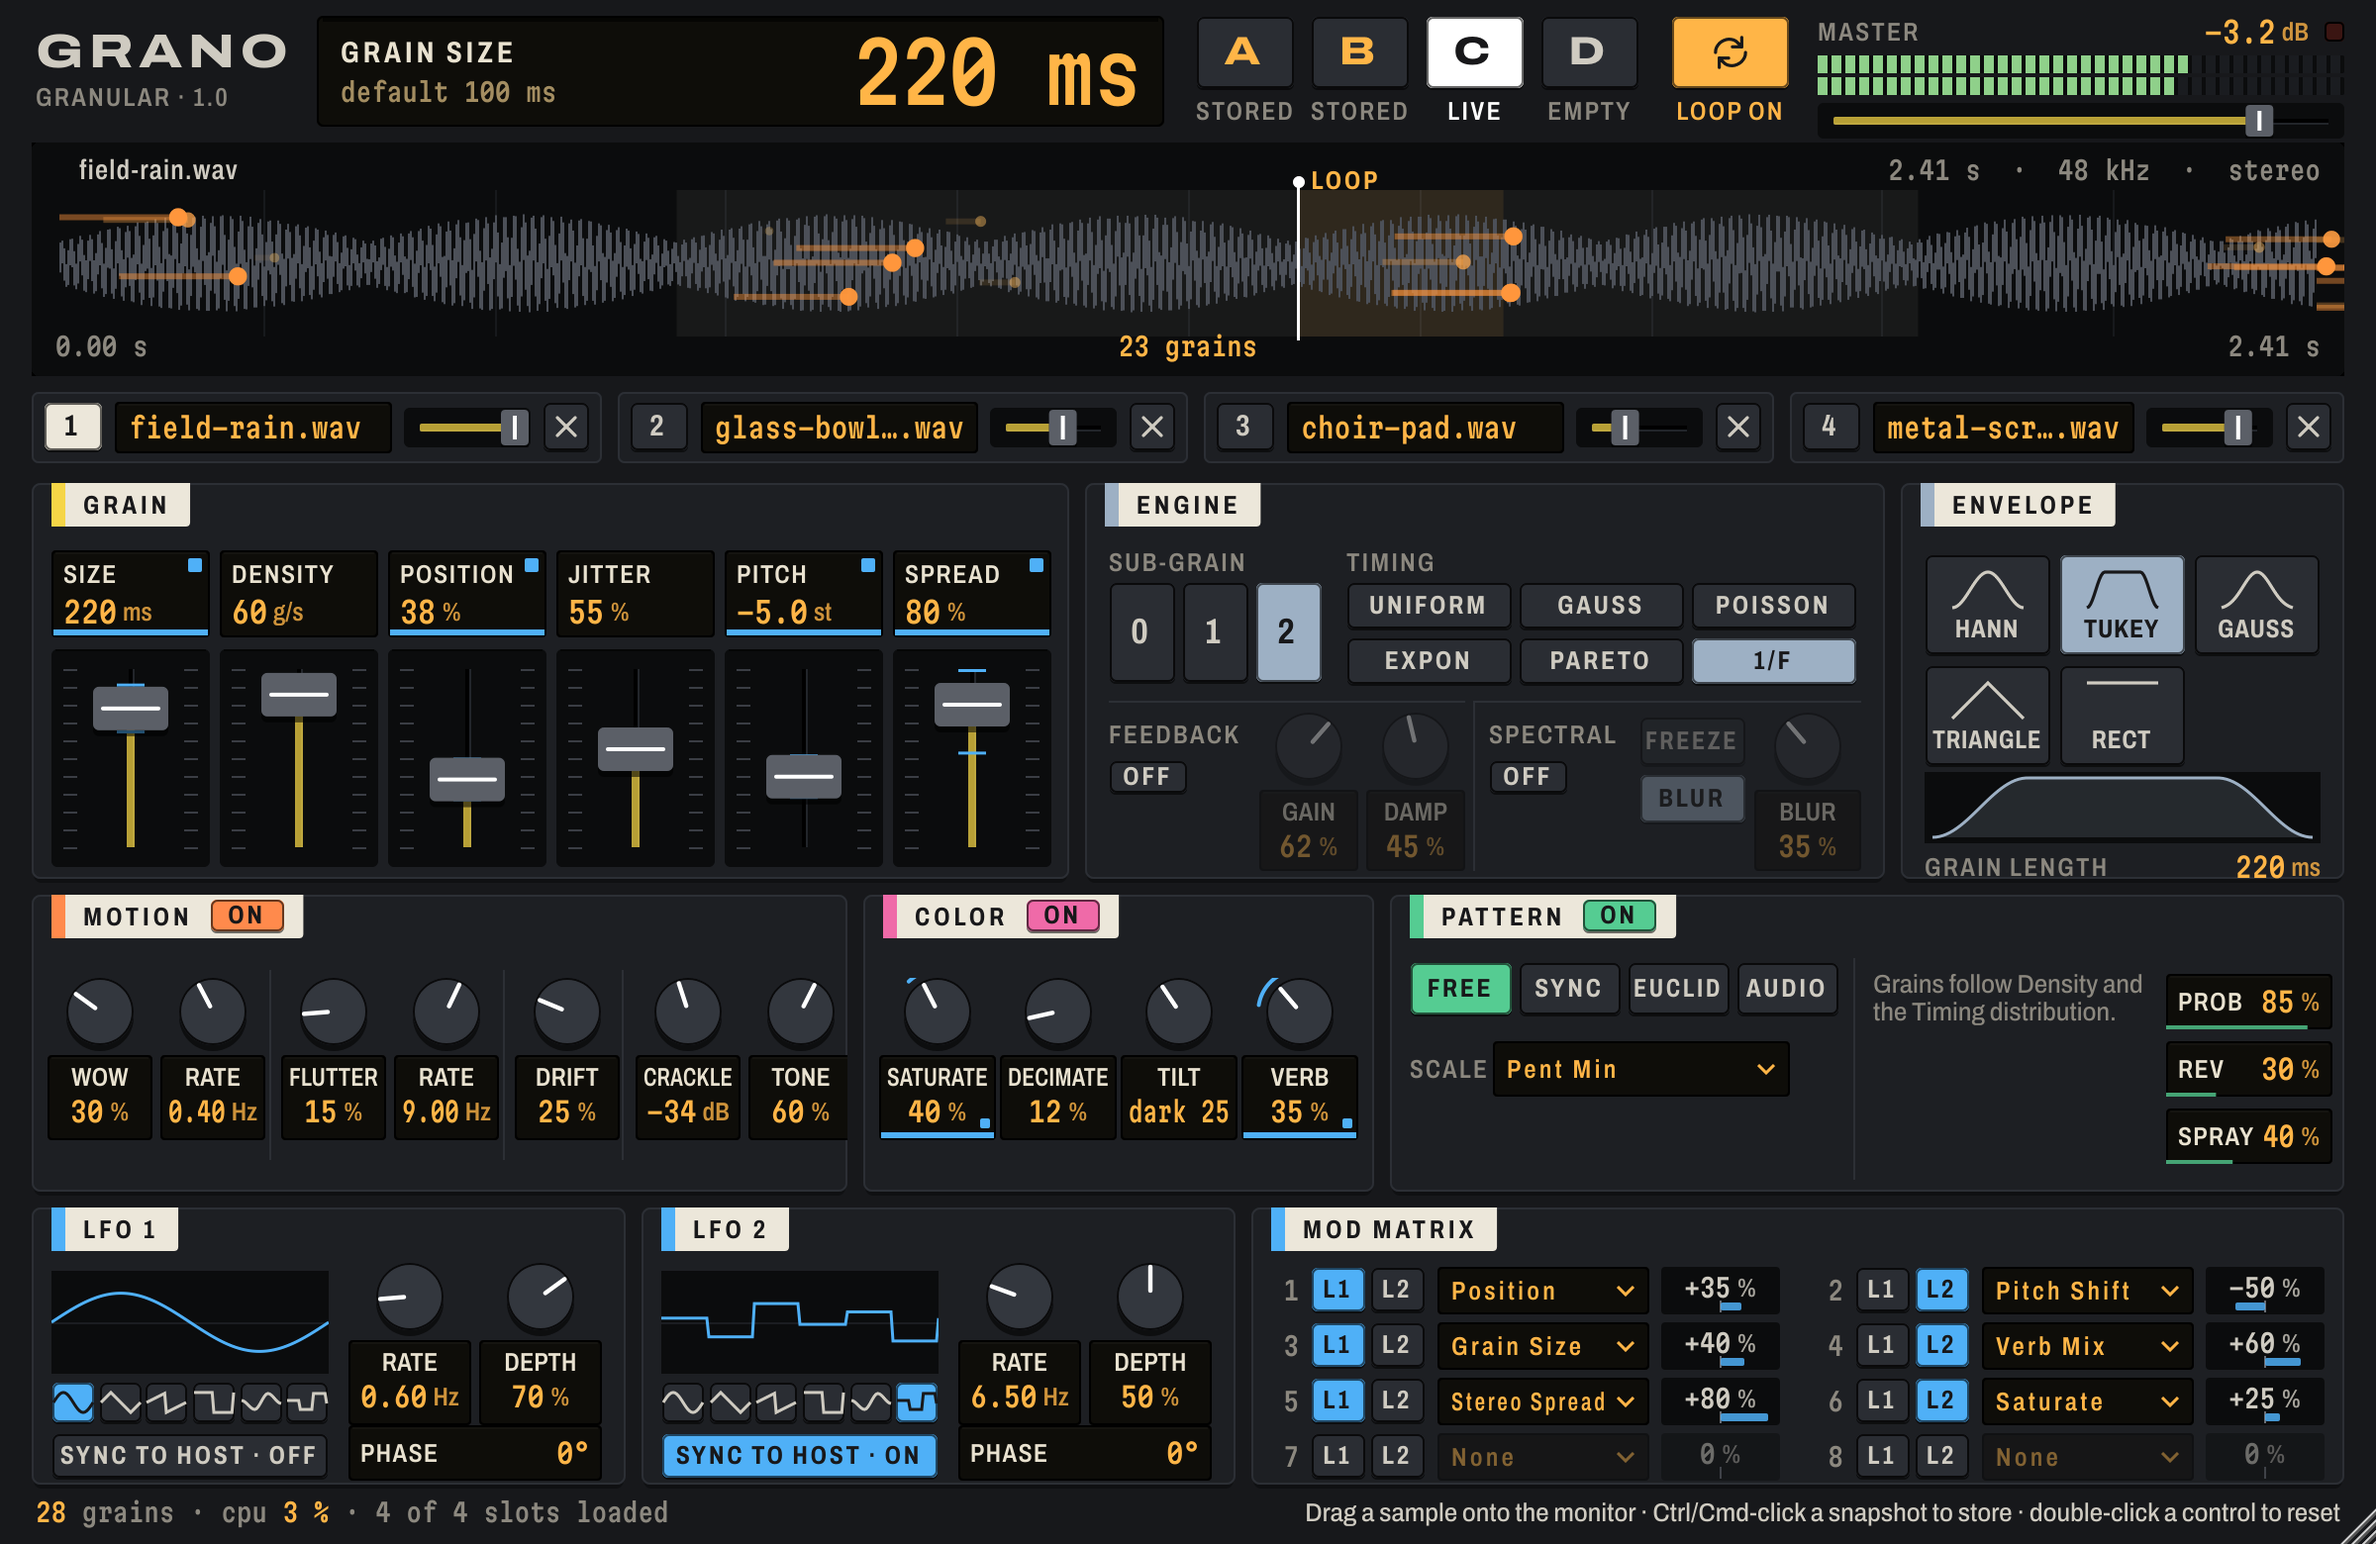
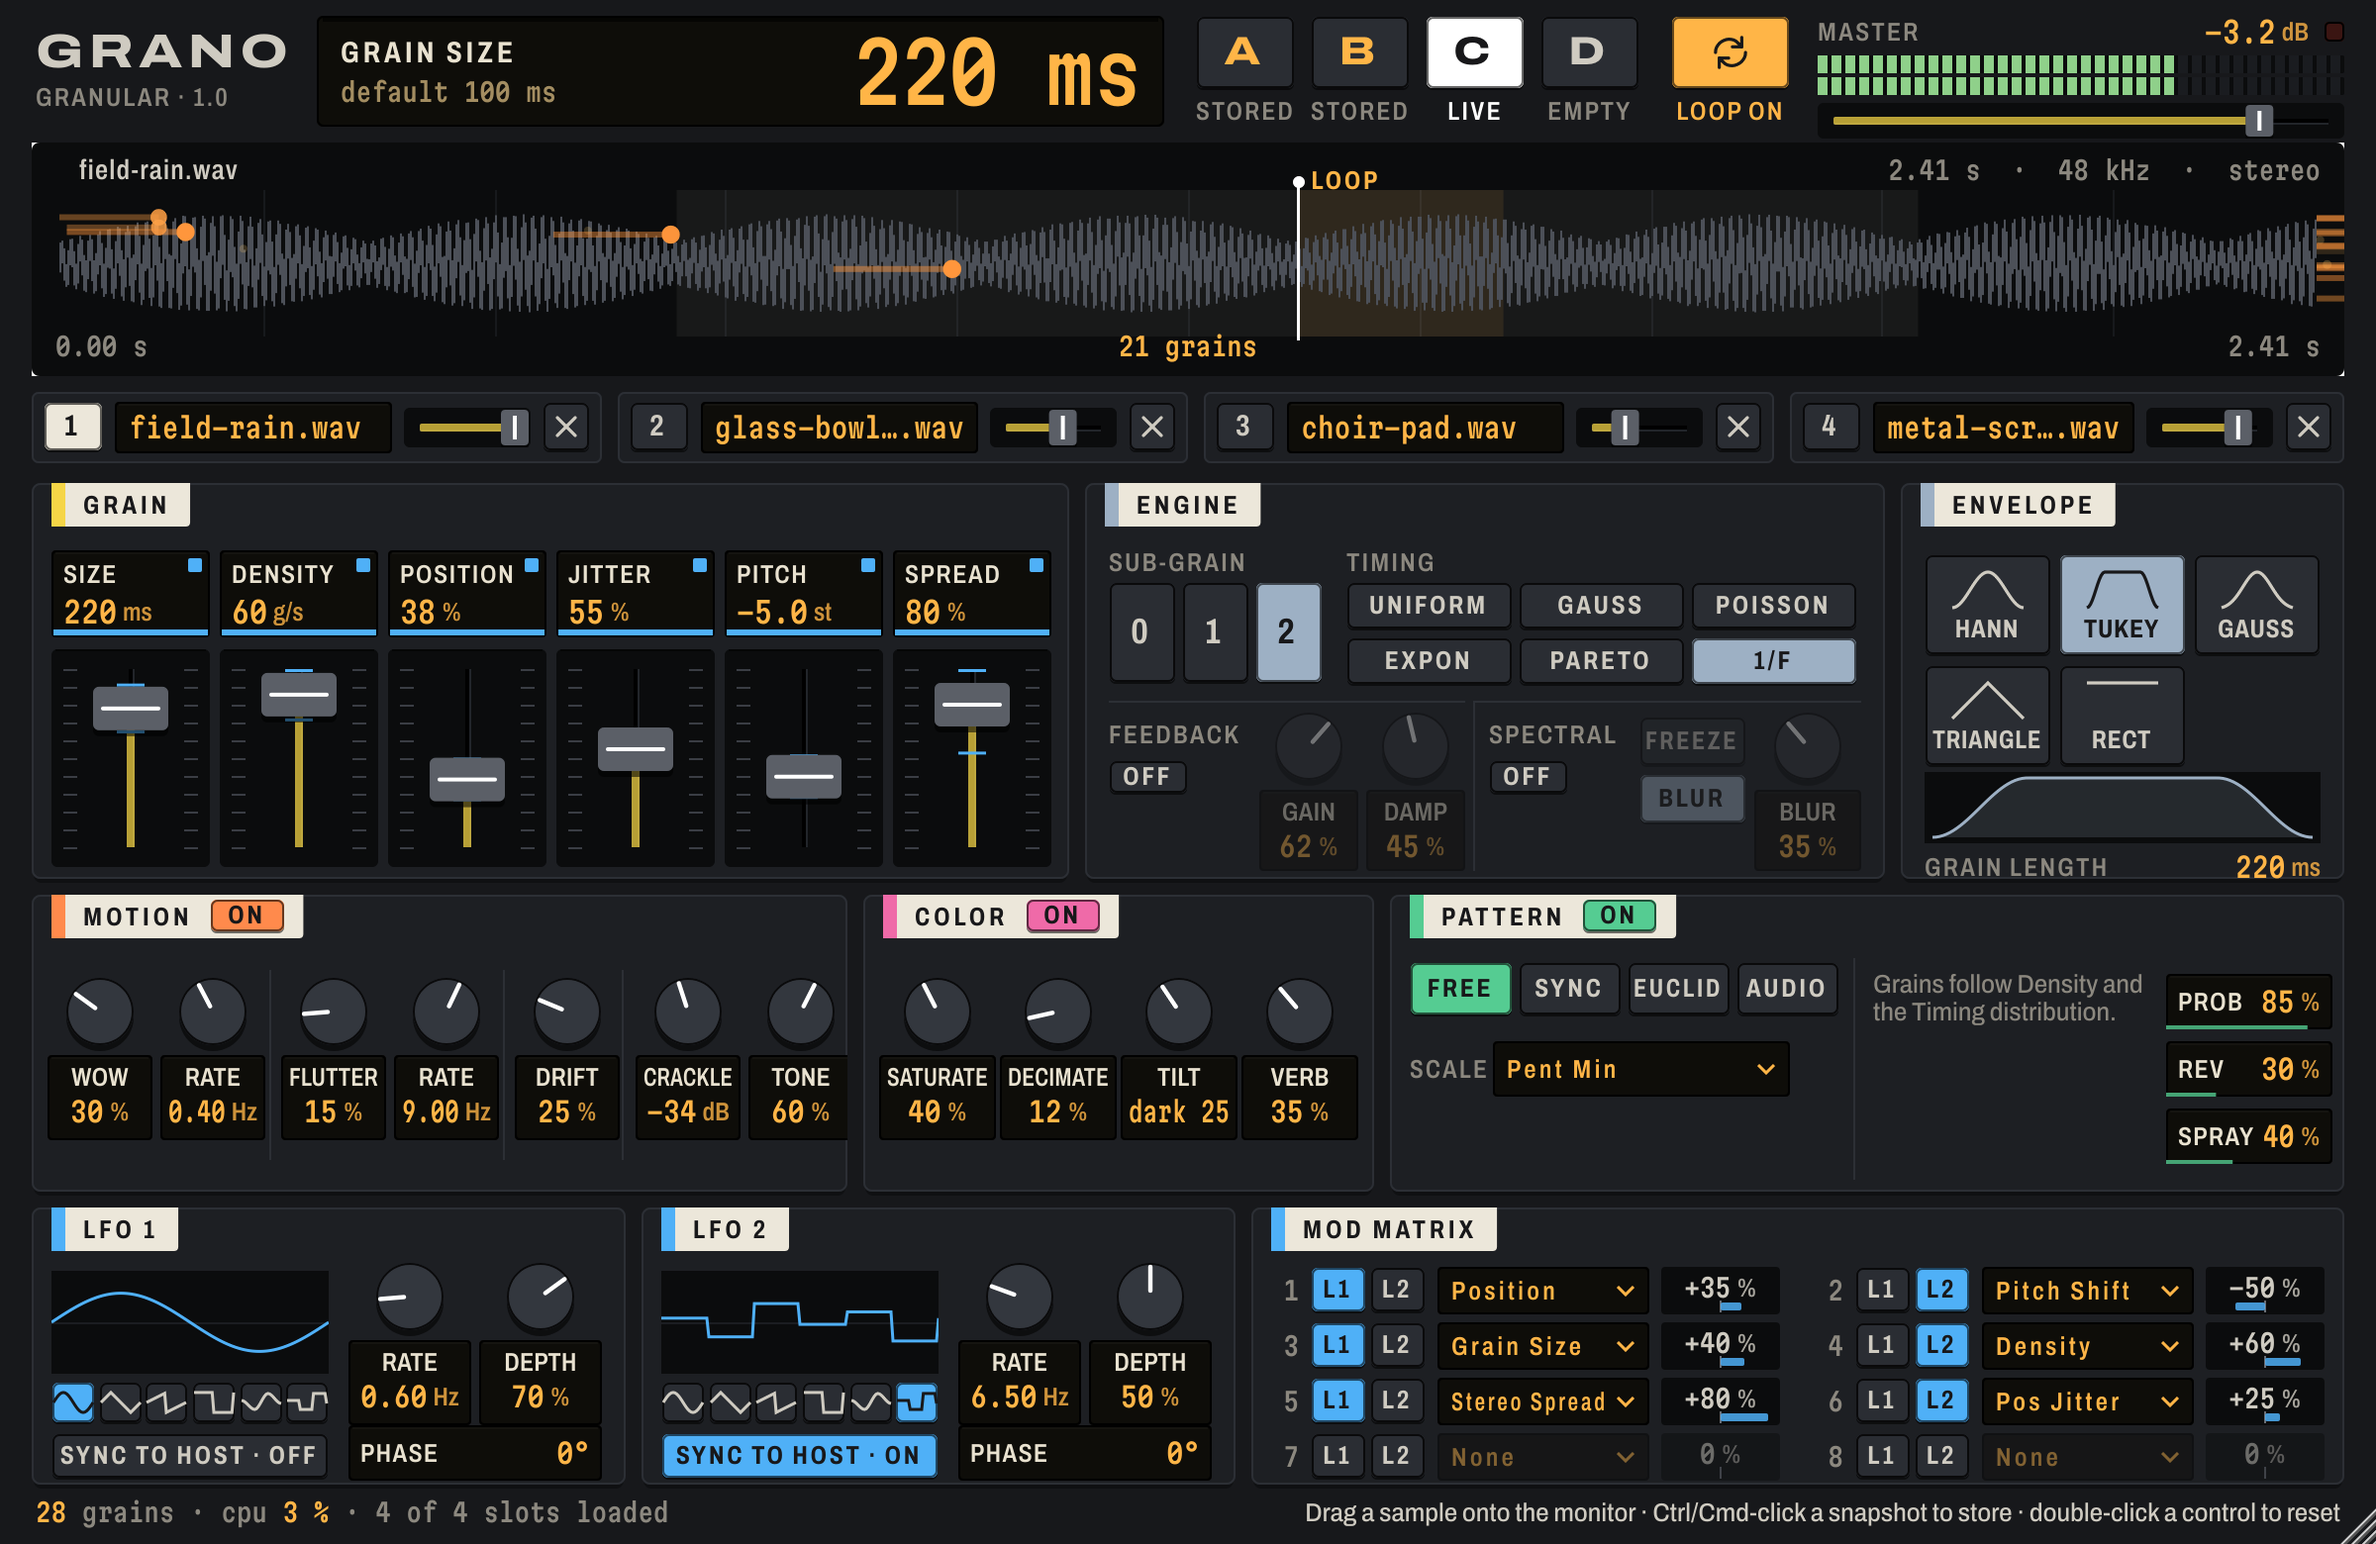
fix(ui): grey out reserved mod destinations, dim routes to them
20 of the 28 matrix destinations have no effect in v1.0. They are now
disabled in the menu; a route to one (from an older project) dims like an
unset row and draws no modulation mark. The hero screenshot no longer
routes to Verb Mix and Saturate.

diff --git a/Tests/test_ui_format.cpp b/Tests/test_ui_format.cpp
@@ -6,6 +6,7 @@
 #include "PluginProcessor.h"
 #include "PluginEditor.h"
 #include "UI/ParamFormat.h"
+#include "Modulation/ModMatrix.h"
 #include "UI/Console.h"
 #include "UI/Monitor.h"
 #include "UI/Header.h"
@@ -224,8 +225,8 @@ TEST_CASE("Editor screenshots", "[.][screenshot]")
             { "lfo2Rate", 6.5f }, { "lfo2Waveform", 5 }, { "lfo2Depth", 0.5f }, { "lfo2Sync", 1 },
             { "slot1Source", 1 }, { "slot1Dest", 3 }, { "slot1Amount", 0.35f }, { "slot2Source", 2 }, { "slot2Dest", 5 },
             { "slot2Amount", -0.5f }, { "slot3Source", 1 }, { "slot3Dest", 1 }, { "slot3Amount", 0.4f },
-            { "slot4Source", 2 }, { "slot4Dest", 18 }, { "slot4Amount", 0.6f }, { "slot5Source", 1 }, { "slot5Dest", 6 },
-            { "slot5Amount", 0.8f }, { "slot6Source", 2 }, { "slot6Dest", 15 }, { "slot6Amount", 0.25f } };
+            { "slot4Source", 2 }, { "slot4Dest", 2 }, { "slot4Amount", 0.6f }, { "slot5Source", 1 }, { "slot5Dest", 6 },
+            { "slot5Amount", 0.8f }, { "slot6Source", 2 }, { "slot6Dest", 4 }, { "slot6Amount", 0.25f } };
         for (auto& [id, val] : v)
             if (auto* p = a.getParameter(id))
                 p->setValueNotifyingHost(p->convertTo0to1(val));
@@ -252,4 +253,17 @@ TEST_CASE("Editor screenshots", "[.][screenshot]")
         set("positionJitter", 0.55f); set("density", 60);
         shoot(proc, "grano-hero.png");
     }
+}
+
+TEST_CASE("Only engine-consumed mod destinations count as active", "[ui]")
+{
+    // Core engine destinations 1..7 are live; LFO 2 Rate only as LFO1 cross-mod.
+    for (int i = 1; i <= 7; ++i)
+        CHECK(ParamFormat::modDestActive(i, 1));
+    CHECK_FALSE(ParamFormat::modDestActive(0, 1));
+    CHECK(ParamFormat::modDestActive(ModMatrix::kLfo2Rate, 1));
+    CHECK_FALSE(ParamFormat::modDestActive(ModMatrix::kLfo2Rate, 2));
+    for (int i = ModMatrix::kWowDepth; i < ParamFormat::kNumModDests; ++i)
+        if (i != ModMatrix::kLfo2Rate)
+            CHECK_FALSE(ParamFormat::modDestActive(i, 1));
 }

diff --git a/Source/UI/Banks.cpp b/Source/UI/Banks.cpp
@@ -3,6 +3,7 @@
 #include "../Parameters.h"
 #include "../Engine/EnvelopeShapes.h"
 #include "../Modules/Pattern.h"
+#include "../Modulation/ModMatrix.h"
 
 using namespace Theme;
 using namespace Console;
@@ -431,13 +432,20 @@ public:
         source_.key(0).setTooltip("Mod " + juce::String(slot) + ": route from LFO 1. Click again to unset.");
         source_.key(1).setTooltip("Mod " + juce::String(slot) + ": route from LFO 2. Click again to unset.");
         addAndMakeVisible(source_);
+        // Reserved destinations stay visible (old projects may use them) but
+        // are greyed out in the menu so new routes can't silently do nothing.
+        for (int i = 1; i < ParamFormat::kNumModDests; ++i)
+            if (!ParamFormat::modDestActive(i, 1))
+                dest_.setItemEnabled(i + 1, false);
         addAndMakeVisible(dest_);
         addAndMakeVisible(amount_);
         refresh();
     }
     void refresh()
     {
-        const bool dead = src_.load() < 0.5f || dst_.load() < 0.5f;
+        // Unset, or routed to a reserved destination: the route does nothing.
+        const int src = juce::roundToInt(src_.load()), dst = juce::roundToInt(dst_.load());
+        const bool dead = src < 1 || dst < 1 || !ParamFormat::modDestActive(dst, src);
         dest_.setAlpha(dead ? 0.45f : 1.0f);
         amount_.setAlpha(dead ? 0.45f : 1.0f);
     }

diff --git a/Source/UI/ParamFormat.cpp b/Source/UI/ParamFormat.cpp
@@ -1,4 +1,5 @@
 #include "ParamFormat.h"
+#include "../Modulation/ModMatrix.h"
 #include <cmath>
 #include <map>
 
@@ -241,12 +242,19 @@ juce::String ParamFormat::hint(const juce::String& id)
     {
         const auto m = "Mod " + juce::String(slot);
         if (part == "Source") return m + ": route from LFO 1 or LFO 2. Click the lit key again to unset.";
-        if (part == "Dest")   return m + " destination: the parameter this route modulates.";
+        if (part == "Dest")   return m + " destination: the parameter this route modulates. Greyed-out entries are reserved and have no effect in v1.0; a row routed to one is dimmed.";
         return m + " amount: bipolar depth, drag left for negative.";
     }
     if (const int s = weightSlot(id); s >= 0)
         return "Slot " + juce::String(s + 1) + " Weight: how often grains pick this sample. Weights are relative.";
     return fullName(id);
+}
+
+bool ParamFormat::modDestActive(int destIndex, int source)
+{
+    if (destIndex >= ModMatrix::kGrainSize && destIndex <= ModMatrix::kMasterVol)
+        return true;
+    return destIndex == ModMatrix::kLfo2Rate && source == 1;
 }
 
 juce::String ParamFormat::modDestParamID(int destIndex)

diff --git a/Source/UI/ConsoleView.cpp b/Source/UI/ConsoleView.cpp
@@ -299,8 +299,8 @@ void ConsoleView::refreshModulation()
         const int src  = juce::roundToInt(apvts.getRawParameterValue(slotParamID(i, "Source"))->load());
         const int dest = juce::roundToInt(apvts.getRawParameterValue(slotParamID(i, "Dest"))->load());
         const float amt = apvts.getRawParameterValue(slotParamID(i, "Amount"))->load();
-        if (src <= 0 || dest <= 0 || amt == 0.0f)
-            continue;
+        if (src <= 0 || dest <= 0 || amt == 0.0f || !ParamFormat::modDestActive(dest, src))
+            continue;   // reserved destinations get no mark: they change nothing
         const float lfoDepth = apvts.getRawParameterValue(src == 1 ? ParamIDs::lfo1Depth : ParamIDs::lfo2Depth)->load();
         depth[ParamFormat::modDestParamID(dest)] += std::abs(amt) * lfoDepth * 0.5f;
     }

diff --git a/Source/UI/ParamFormat.h b/Source/UI/ParamFormat.h
@@ -30,5 +30,10 @@ namespace ParamFormat
     // Mod matrix destination index (Parameters.cpp kModDests order) → the
     // parameter ID it modulates; empty for 0 ("None") or out of range.
     juce::String modDestParamID(int destIndex);
+
+    // True when the engine consumes this destination in v1.0: the core engine
+    // parameters, plus LFO 2 Rate when the route's source is LFO 1 (cross-mod).
+    // The other destinations are reserved post-v1.0 and have no effect.
+    bool modDestActive(int destIndex, int source = 1);
     inline constexpr int kNumModDests = 29;
 }

diff --git a/Tests/test_qa.cpp b/Tests/test_qa.cpp
@@ -474,7 +474,7 @@ TEST_CASE("QA 7.1-7.12 every LFO waveform modulating grain size", "[.][qa][pre]"
     }
 }
 
-TEST_CASE("QA 8.4 matrix lists 29 destinations", "[.][qa][auto]")
+TEST_CASE("QA 8.4 matrix lists 29 destinations", "[.][qa][pre]")
 {
     Rig r;
     auto* p = dynamic_cast<juce::AudioParameterChoice*>(r.param(ParamIDs::slot1Dest));

diff --git a/TESTING.md b/TESTING.md
@@ -821,13 +821,14 @@ Mark each result `[x]` (pass) or `[F]` (fail). For any `[F]` add one line below:
 
 ---
 
-### 8.4 Verify all 29 destinations are selectable
+### 8.4 Destination menu: 29 entries, reserved ones greyed out
 **Setup:** Any single matrix slot.  
 **Steps:**
 1. Click the destination select of any MOD MATRIX row.
 2. Count/verify all destination options appear.
+3. Set a row's source to L1 and, in a project saved with beta.4 or earlier that routes to a module destination (e.g. Verb Mix), open it and look at that row.
 
-**Expected result:** Exactly 29 destinations listed. No blank entries, no duplicates. All parameter names are legible.  
+**Expected result:** Exactly 29 entries (None + 28), no blanks, no duplicates, all legible. Selectable: None, Grain Size, Density, Position, Pos Jitter, Pitch Shift, Stereo Spread, Master Vol, LFO2 Rate. The other 20 are greyed out and cannot be picked (reserved post-v1.0). Step 3: the old route still shows its destination, but the row is dimmed like an empty row and the target control shows no modulation mark.  
 **Win (VST3/DAW):** `[ ]` &nbsp;&nbsp; **Win (Standalone):** `[ ]`  
 **macOS (VST3):** `[ ]` &nbsp;&nbsp; **macOS (AU):** `[ ]` &nbsp;&nbsp; **macOS (Standalone):** `[ ]`
 

diff --git a/README.md b/README.md
@@ -642,7 +642,7 @@ Eight routing slots, each with three settings:
 | **Dest** | Any automatable parameter | Modulation destination. |
 | **Amount** | −100% to +100% | Modulation depth. Negative inverts polarity. |
 
-Destinations active in v1.0: **Grain Size, Density, Position, Position Jitter, Pitch Shift, Stereo Spread, Master Volume**, plus the LFO 1 → LFO 2 Rate cross-mod. The remaining module and LFO destinations appear in the menu but are reserved for a post-v1.0 release — routing to them currently has no effect.
+Destinations active in v1.0: **Grain Size, Density, Position, Position Jitter, Pitch Shift, Stereo Spread, Master Volume**, plus the LFO 1 → LFO 2 Rate cross-mod. The remaining module and LFO destinations are reserved for a post-v1.0 release: they are greyed out in the menu, and a route to one (from an older project) is dimmed and shows no modulation mark, because it has no effect.
 
 ### Snapshots A/B/C/D
 

diff --git a/DESIGN_SPEC.md b/DESIGN_SPEC.md
@@ -125,6 +125,10 @@ tooltip + status hint from `ParamFormat::hint`.
 | **ChoiceSelect** | strip-styled ComboBox with amber chevron | sync division, quantize scale, matrix destination |
 | **Bank** | plate + console tape (title, module edge, optional On key); body at 38 % alpha and tape title struck through when off | every module |
 
+Matrix destination menu: reserved destinations (no effect in v1.0,
+`ParamFormat::modDestActive`) are disabled items; a row routed to one dims
+like an unset row.
+
 Modulation marks: a target of an active matrix route gets a 3 px blue
 underline and a square marker on its strip, plus a range bracket (faders) or
 arc (encoders) sized by |amount| × LFO depth.

diff --git a/RELEASE_NOTES.md b/RELEASE_NOTES.md
@@ -13,6 +13,10 @@
   from beta.1 (where the loop faded out within seconds).
 - With Feedback on and no sample loaded, the No Source setting now applies
   (test tone or silence), as it does with Feedback off.
+- **Reserved mod destinations are marked.** The 20 module and LFO destinations
+  that have no effect yet are greyed out in the matrix menu. A route to one,
+  kept from an older project, is dimmed and no longer draws a modulation mark
+  on its target.
 
 ---
 
